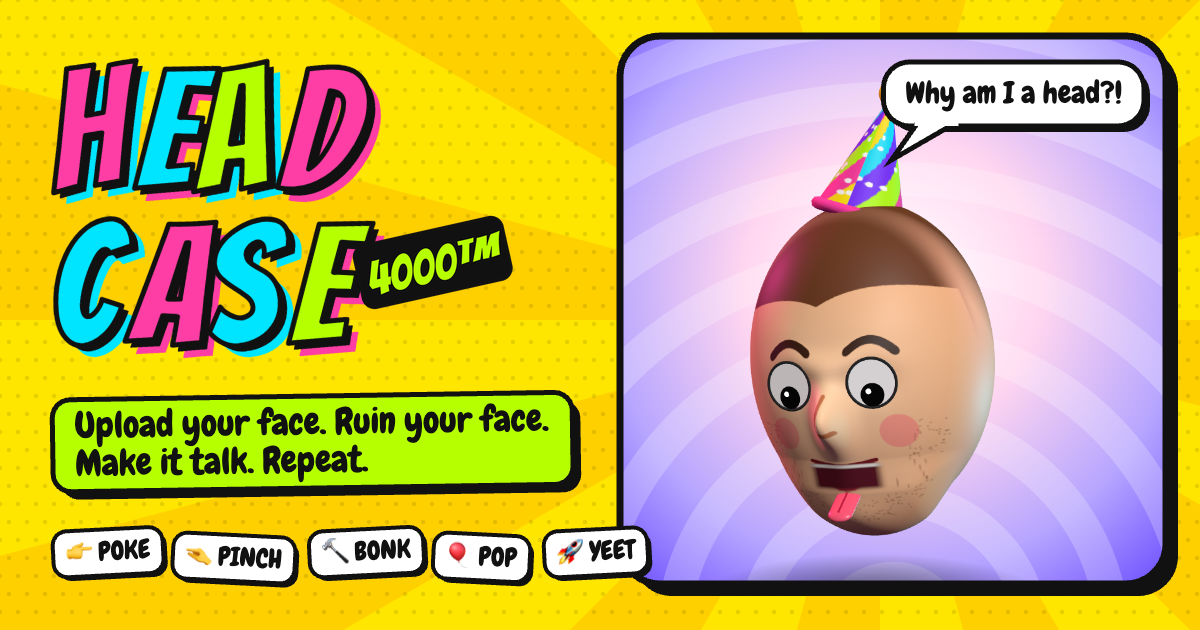
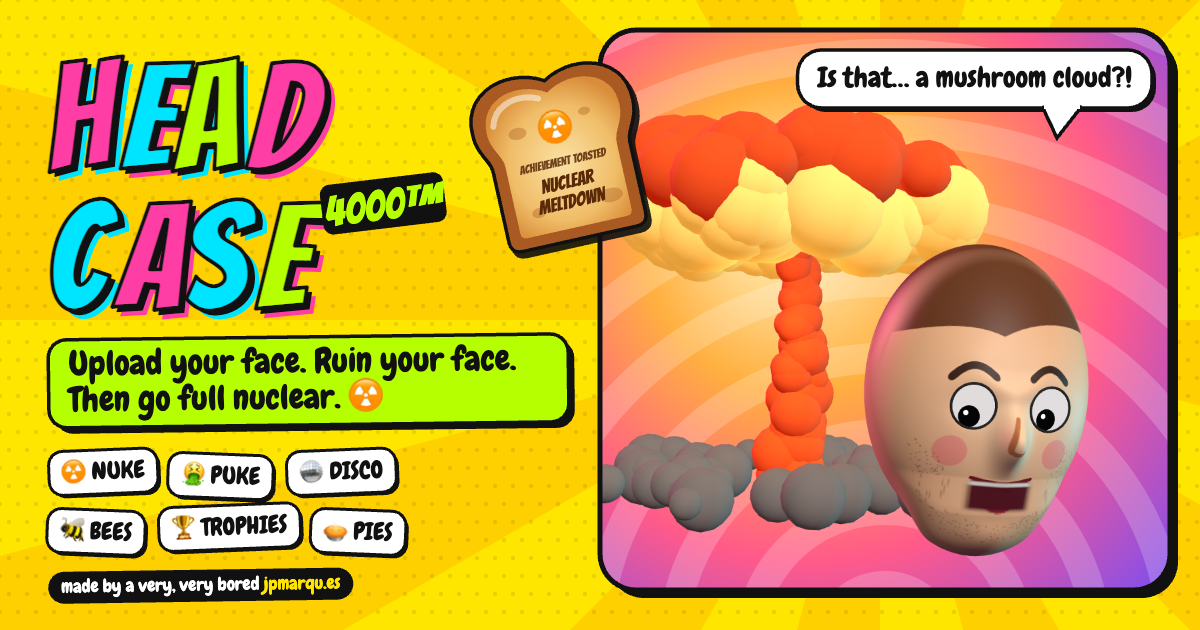
Refresh the social preview image
The new image shows Dave with googly eyes watching a 3D mushroom cloud,
a toast for the Nuclear Meltdown achievement, the 4000 logo, and chips
for the newer features. The alt text in the Open Graph and Twitter tags
now describes the new image.

diff --git a/index.html b/index.html
@@ -21,13 +21,13 @@
   <meta property="og:image" content="https://headcase-3000.vercel.app/og.png" />
   <meta property="og:image:width" content="1200" />
   <meta property="og:image:height" content="630" />
-  <meta property="og:image:alt" content="A cartoon 3D head with googly eyes and a party hat, sticking its tongue out, next to the HEADCASE 4000 logo." />
+  <meta property="og:image:alt" content="A panicked cartoon 3D head with googly eyes watching a mushroom cloud rise behind it, a flying slice of toast that says Achievement Toasted: Nuclear Meltdown, and the HEADCASE 4000 logo." />
 
   <meta name="twitter:card" content="summary_large_image" />
   <meta name="twitter:title" content="HEADCASE 4000™ — upload your face, ruin your face" />
   <meta name="twitter:description" content="Turn your photo into a 3D head. Then poke it, pinch it, bonk it, pump it until it pops, and make it talk." />
   <meta name="twitter:image" content="https://headcase-3000.vercel.app/og.png" />
-  <meta name="twitter:image:alt" content="A cartoon 3D head with googly eyes and a party hat, sticking its tongue out, next to the HEADCASE 4000 logo." />
+  <meta name="twitter:image:alt" content="A panicked cartoon 3D head with googly eyes watching a mushroom cloud rise behind it, a flying slice of toast that says Achievement Toasted: Nuclear Meltdown, and the HEADCASE 4000 logo." />
   <link rel="preconnect" href="https://fonts.googleapis.com" />
   <link rel="preconnect" href="https://fonts.gstatic.com" crossorigin />
   <link href="https://fonts.googleapis.com/css2?family=Bangers&family=Chewy&display=swap" rel="stylesheet" />
